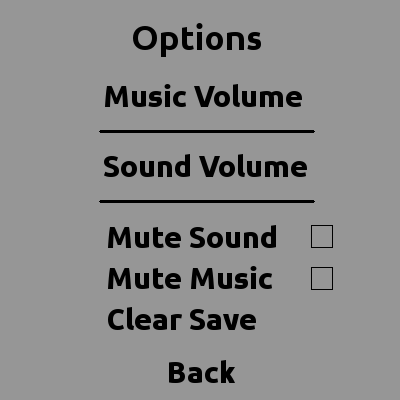
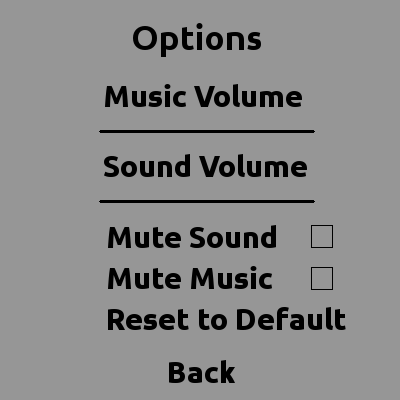
Add settings that are save accross sessions.

Changed region(s): [[0.27, 0.75, 0.87, 0.84]]

diff --git a/core/src/za/co/jethromuller/ctst/menus/OptionsMenu.java b/core/src/za/co/jethromuller/ctst/menus/OptionsMenu.java
@@ -3,6 +3,7 @@ package za.co.jethromuller.ctst.menus;
 
 import com.badlogic.gdx.Gdx;
 import com.badlogic.gdx.Input;
+import com.badlogic.gdx.Preferences;
 import com.badlogic.gdx.graphics.Color;
 import com.badlogic.gdx.math.Rectangle;
 import za.co.jethromuller.ctst.CtstGame;
@@ -21,17 +22,28 @@ public class OptionsMenu extends Menu{
 
     private int sliderDistance = 200;
 
+    private Preferences options;
+    private boolean musicMuted;
+    private boolean soundMuted;
+
 
     public OptionsMenu(CtstGame game) {
         super(game, null, "options_menu.png");
+        options = Gdx.app.getPreferences("CTST");
 
         yCoords = new int[] {304, 233, 162, 122, 82, 28};
         xCoord = 90;
 
-        sliderBarMusic = new Rectangle(barX + sliderDistance, musicSliderY, 15, 30);
-        sliderBarSound = new Rectangle(barX + sliderDistance, soundSliderY, 15, 30);
-        muteSound = new Rectangle(-313, -154, 18, 19);
-        muteMusic = new Rectangle(-313, -112, 18, 19);
+        muteSound = new Rectangle(313, 154, 18, 19);
+        muteMusic = new Rectangle(313, 112, 18, 19);
+
+        float musicOffset = (game.musicController.getMusicVolume() * sliderDistance);
+        float soundOffset = (game.musicController.getSoundVolume() * sliderDistance);
+        sliderBarMusic = new Rectangle(barX + musicOffset, musicSliderY, 15, 30);
+        sliderBarSound = new Rectangle(barX + soundOffset, soundSliderY, 15, 30);
+
+        musicMuted = game.musicController.isMusicMuted();
+        soundMuted = game.musicController.isSoundMuted();
     }
 
     @Override
@@ -42,16 +54,29 @@ public class OptionsMenu extends Menu{
                 break;
             case 2:
                 game.musicController.muteSound();
-                muteSound.setPosition(-muteSound.x, -muteSound.y);
+                soundMuted = !soundMuted;
                 break;
             case 3:
                 game.musicController.muteMusic();
-                muteMusic.setPosition(-muteMusic.x, -muteMusic.y);
+                musicMuted = !musicMuted;
                 break;
             case 4:
                 game.musicController.playSelectSound(1F, 0.25F, 0F);
+                options.clear();
+                musicMuted = false;
+                soundMuted = false;
+                game.musicController.unMuteMusic();
+                game.musicController.unMuteSound();
+                game.musicController.setMusicVolume(1F);
+                game.musicController.setSoundVolume(1F);
                 break;
             case 5:
+                String optionCsv = game.musicController.getMusicVolume() + "," +
+                                   game.musicController.getSoundVolume() + "," +
+                                   String.valueOf(soundMuted) + "," +
+                                   String.valueOf(musicMuted);
+                options.putString("options", optionCsv);
+                options.flush();
                 game.setScreen(new MainMenu(game));
                 break;
         }
@@ -65,29 +90,31 @@ public class OptionsMenu extends Menu{
             xCoord = 90;
         }
         if (option == 0) {
+            float musicVol = game.musicController.getMusicVolume();
             if (Gdx.input.isKeyJustPressed(Input.Keys.LEFT)) {
-                if (game.musicController.getMusicVolume() > 0.2) {
-                    game.musicController.setMusicVolume(-0.2F);
+                if (musicVol > 0.2) {
+                    game.musicController.setMusicVolume(musicVol - 0.2F);
                 } else {
                     game.musicController.playSelectSound(1F, 0.25F, 0F);
                 }
             } else if (Gdx.input.isKeyJustPressed(Input.Keys.RIGHT)) {
-                if (game.musicController.getMusicVolume() < 1) {
-                    game.musicController.setMusicVolume(0.2F);
+                if (musicVol < 1) {
+                    game.musicController.setMusicVolume(musicVol + 0.2F);
                 } else {
                     game.musicController.playSelectSound(1F, 0.25F, 0F);
                 }
             }
         } else if (option == 1) {
+            float soundVol = game.musicController.getSoundVolume();
             if (Gdx.input.isKeyJustPressed(Input.Keys.LEFT)) {
-                if (game.musicController.getSoundVolume() > 0.2) {
-                    game.musicController.setSoundVolume(-0.2F);
+                if (soundVol > 0.2) {
+                    game.musicController.setSoundVolume(soundVol - 0.2F);
                 } else {
                     game.musicController.playSelectSound(1F, 0.25F, 0F);
                 }
             } else if (Gdx.input.isKeyJustPressed(Input.Keys.RIGHT)) {
-                if (game.musicController.getSoundVolume() < 1) {
-                    game.musicController.setSoundVolume(0.2F);
+                if (soundVol < 1) {
+                    game.musicController.setSoundVolume(soundVol + 0.2F);
                 } else {
                     game.musicController.playSelectSound(1F, 0.25F, 0F);
                 }
@@ -107,10 +134,32 @@ public class OptionsMenu extends Menu{
         shapeRenderer.rect(barX + soundOffset, soundSliderY, sliderBarSound.getWidth(),
                            sliderBarSound.getHeight());
 
-        shapeRenderer.rect(muteSound.getX(), muteSound.getY(), muteSound.getWidth(),
-                           muteSound.getHeight());
+        if (soundMuted) {
+            shapeRenderer.rect(muteSound.getX(), muteSound.getY(), muteSound.getWidth(), muteSound.getHeight());
 
-        shapeRenderer.rect(muteMusic.getX(), muteMusic.getY(), muteMusic.getWidth(),
-                           muteMusic.getHeight());
+        }
+        if (musicMuted) {
+            shapeRenderer.rect(muteMusic.getX(), muteMusic.getY(), muteMusic.getWidth(), muteMusic.getHeight());
+
+        }
+    }
+
+    public static void setOptions(CtstGame game) {
+        Preferences options = Gdx.app.getPreferences("CTST");
+        if (options.contains("options")) {
+            String[] optionValues = options.getString("options").split(",");
+            game.musicController.setMusicVolume(Float.parseFloat(optionValues[0]));
+            game.musicController.setSoundVolume(Float.parseFloat(optionValues[1]));
+            if (Boolean.parseBoolean(optionValues[2])) {
+                game.musicController.muteSound();
+            } else {
+                game.musicController.unMuteSound();
+            }
+            if (Boolean.parseBoolean(optionValues[3])) {
+                game.musicController.muteMusic();
+            } else {
+                game.musicController.unMuteMusic();
+            }
+        }
     }
 }

diff --git a/core/src/za/co/jethromuller/ctst/controllers/MusicController.java b/core/src/za/co/jethromuller/ctst/controllers/MusicController.java
@@ -105,17 +105,34 @@ public class MusicController {
         }
     }
 
-    public void muteMusic() {
-        muteMusic = ((muteMusic == 1) ? 0 : 1);
+    public void unMuteMusic() {
+        muteMusic = 1;
         updateMusicVolumes();
     }
 
-    public void muteSound() {
-        muteSound = ((muteSound == 1) ? 0 : 1);
+    public void muteMusic() {
+        muteMusic = 0;
+        updateMusicVolumes();
     }
 
-    public void setMusicVolume(float volOffset) {
-        musicVolume += volOffset;
+    public boolean isMusicMuted() {
+        return (muteMusic == 0);
+    }
+
+    public boolean isSoundMuted() {
+        return (muteSound == 0);
+    }
+
+    public void unMuteSound() {
+        muteSound = 1;
+    }
+
+    public void muteSound() {
+        muteSound = 0;
+    }
+
+    public void setMusicVolume(float newVolume) {
+        musicVolume = newVolume;
         updateMusicVolumes();
     }
 
@@ -124,8 +141,8 @@ public class MusicController {
         menuMusic.setVolume(menuVolume * musicVolume * muteMusic);
     }
 
-    public void setSoundVolume(float volOffset) {
-        soundVolume += volOffset;
+    public void setSoundVolume(float newVolume) {
+        soundVolume = newVolume;
     }
 
     public float getMusicVolume() {

diff --git a/core/src/za/co/jethromuller/ctst/menus/MainMenu.java b/core/src/za/co/jethromuller/ctst/menus/MainMenu.java
@@ -11,6 +11,7 @@ public class MainMenu extends Menu {
         yCoords = new int[] {224, 180, 140};
         xCoord = 104;
 
+        OptionsMenu.setOptions(game);
         game.musicController.startMenuMusic();
     }
 
